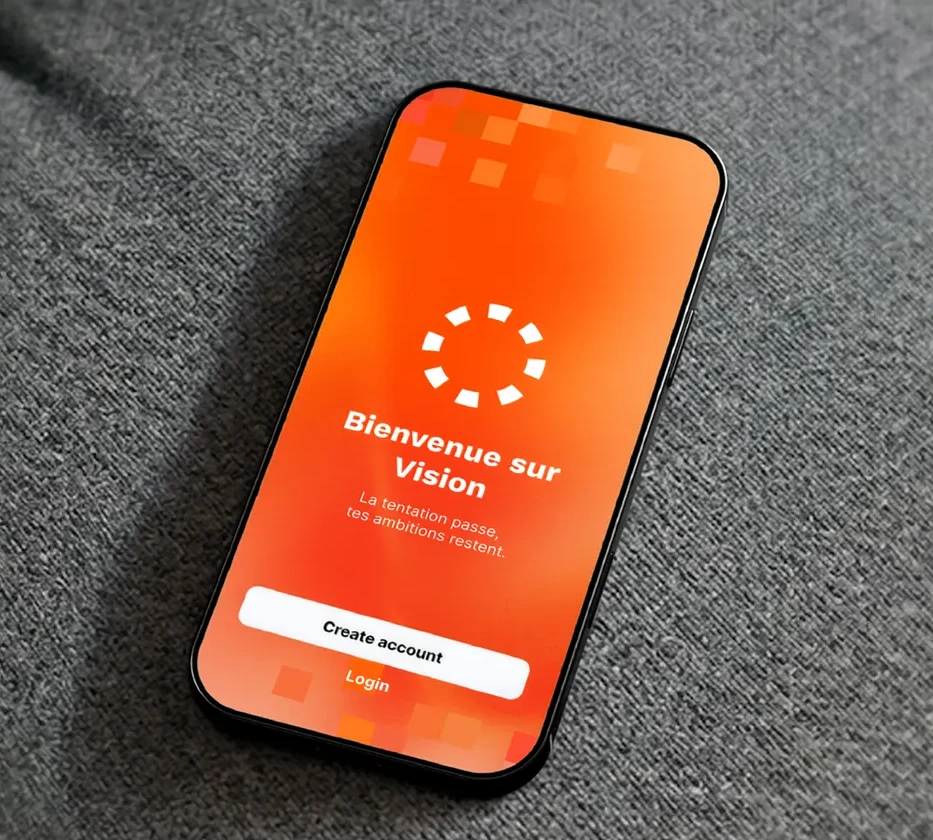
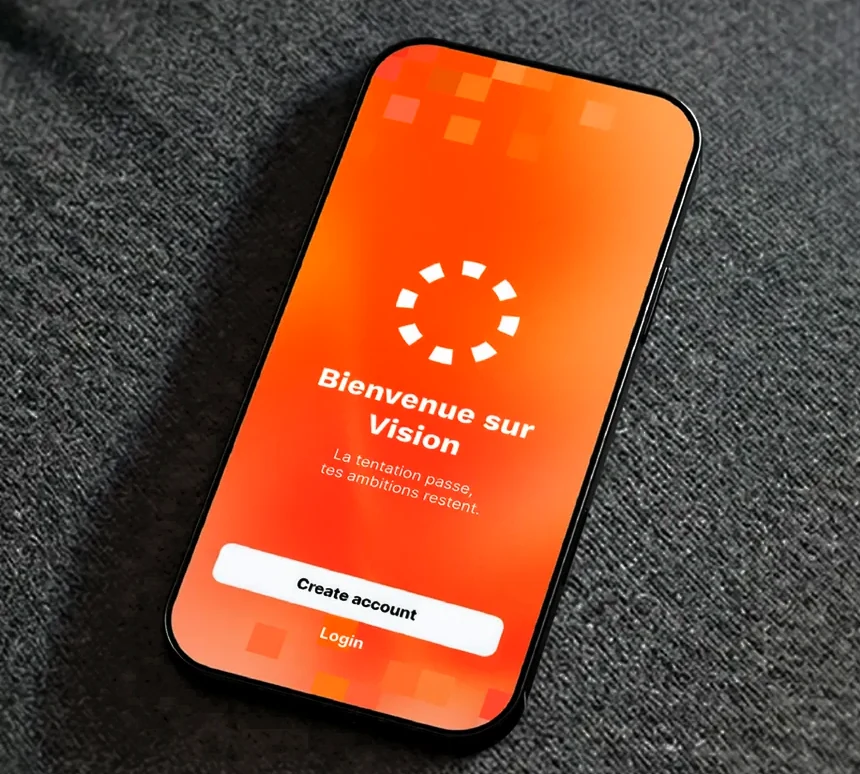
work: CTA « Voir tous les projets » en corps display avec pastille +, espace resserré ; vignette Vision recadrée plus serrée et contrastée
Claude-Session: https://claude.ai/code/session_01PNP8F5Nuc7TeX2R9uxrj3y

diff --git a/assets/css/work.css b/assets/css/work.css
@@ -1,7 +1,7 @@
 /* ==========================================================================
    Accueil · Projets : grille éditoriale asymétrique
    ========================================================================== */
-.work { padding: 34px var(--g) 150px; }
+.work { padding: 34px var(--g) 128px; }
 .work-grid { row-gap: 110px; align-items: end; }
 
 .card { position: relative; }
@@ -39,22 +39,44 @@
 .work-more { display: contents; }
 .work-more[hidden] { display: none; }
 
-.work-foot { display: flex; justify-content: center; margin-top: 96px; }
-.work-toggle { display: flex; flex-direction: column; align-items: center; gap: 74px; }
-.work-plus { position: relative; width: 19px; height: 19px; transition: transform .6s var(--ease); }
-.work-plus::before, .work-plus::after { content: ""; position: absolute; background: currentColor; }
-.work-plus::before { left: 0; right: 0; top: 9px; height: 1.4px; }
-.work-plus::after { top: 0; bottom: 0; left: 9px; width: 1.4px; }
-.work-toggle:hover .work-plus, .work-toggle[aria-expanded="true"] .work-plus { transform: rotate(90deg); }
-.work-toggle[aria-expanded="true"] .work-plus::after { transform: scaleY(0); }
-.work-all {
-  font-size: clamp(18px, 1.55vw, 25px); font-weight: 600; letter-spacing: -.025em; line-height: 1;
-  text-decoration: underline; text-decoration-thickness: 1.6px; text-underline-offset: 5px;
+.work-foot { display: flex; justify-content: center; margin-top: 84px; }
+.work-toggle {
+  display: inline-flex; align-items: center; gap: clamp(16px, 1.5vw, 24px);
+  font-size: var(--fs-display); line-height: 1; text-align: left;
 }
-.work-all sup { font-size: 9px; font-weight: 600; margin-left: 2px; vertical-align: 10px; text-decoration: none; display: inline-block; }
+.work-plus {
+  position: relative; flex: none; width: .86em; height: .86em; border-radius: 50%;
+  background: var(--ink); color: var(--bg);
+  transition: transform .7s var(--ease), background-color .4s;
+}
+.work-plus::before, .work-plus::after {
+  content: ""; position: absolute; left: 50%; top: 50%; background: currentColor;
+  transition: transform .5s var(--ease);
+}
+.work-plus::before { width: 36%; height: 3px; transform: translate(-50%, -50%); }
+.work-plus::after { width: 3px; height: 36%; transform: translate(-50%, -50%); }
+.work-toggle:hover .work-plus { transform: rotate(90deg); }
+.work-toggle[aria-expanded="true"] .work-plus::after { transform: translate(-50%, -50%) scaleY(0); }
+.work-all {
+  display: inline-flex; align-items: flex-start;
+  font-weight: 600; letter-spacing: -.048em; white-space: nowrap;
+}
+.work-all-label {
+  text-decoration: underline; text-decoration-thickness: 3px; text-underline-offset: .14em;
+  text-decoration-skip-ink: auto; text-decoration-color: currentColor;
+  transition: text-decoration-color .5s var(--ease), text-underline-offset .5s var(--ease);
+}
+.work-toggle:hover .work-all-label { text-decoration-color: transparent; text-underline-offset: .3em; }
+.work-all sup {
+  font-size: 13px; font-weight: 600; letter-spacing: 0; line-height: 1;
+  margin: .2em 0 0 6px; vertical-align: 0;
+}
 .work-toggle[hidden] { display: none; }
 
 @media (max-width: 800px) {
+  .work-foot { margin-top: 64px; }
+  .work-toggle { font-size: clamp(26px, 8.4vw, 44px); }
+  .work-plus::before { height: 2px; } .work-plus::after { width: 2px; }
   .work-grid { row-gap: 56px; }
   .card--a, .card--b, .card--c, .card--d, .card--e, .card--f { grid-column: 1 / -1; margin-top: 0; }
   .card--b, .card--d { grid-column: 3 / -1; }

diff --git a/index.html b/index.html
@@ -17,7 +17,7 @@
 <link rel="stylesheet" href="assets/css/nav.css?v=d0eab731">
 <link rel="stylesheet" href="assets/css/hero.css?v=57d8aa1d">
 <link rel="stylesheet" href="assets/css/intro.css?v=3aec4c8a">
-<link rel="stylesheet" href="assets/css/work.css?v=9eb64efb">
+<link rel="stylesheet" href="assets/css/work.css?v=7ae00192">
 <link rel="stylesheet" href="assets/css/clients.css?v=2abe2b6b">
 <link rel="stylesheet" href="assets/css/services.css?v=ae64671d">
 <link rel="stylesheet" href="assets/css/next.css?v=b3998634">
@@ -80,7 +80,7 @@
       <article class="card card--a" data-reveal>
         <a href="projets/vision.html">
           <span class="card-num" aria-hidden="true">01</span>
-          <span class="card-frame frame"><img src="assets/img/work-vision.webp" alt="" width="933" height="840" loading="lazy" decoding="async"></span>
+          <span class="card-frame frame"><img src="assets/img/work-vision.webp" alt="" width="860" height="774" loading="lazy" decoding="async"></span>
           <span class="card-meta"><span class="card-title">Vision</span><span class="card-cat">App mobile · UX/UI</span></span>
         </a>
       </article>
@@ -125,7 +125,7 @@
     <div class="work-foot">
       <button type="button" class="work-toggle" data-more-toggle aria-expanded="false" aria-controls="work-more" data-close-label="Voir moins de projets" hidden>
         <span class="work-plus" aria-hidden="true"></span>
-        <span class="work-all"><span data-more-label>Voir tous les projets</span><sup>06</sup></span>
+        <span class="work-all"><span class="work-all-label" data-more-label>Voir tous les projets</span><sup>06</sup></span>
       </button>
     </div>
   </section>

diff --git a/build.py b/build.py
@@ -740,7 +740,7 @@ def render_work(base):
     <div class="work-foot">
       <button type="button" class="work-toggle" data-more-toggle aria-expanded="false" aria-controls="work-more" data-close-label="Voir moins de projets" hidden>
         <span class="work-plus" aria-hidden="true"></span>
-        <span class="work-all"><span data-more-label>Voir tous les projets</span><sup>{len(PROJECTS):02d}</sup></span>
+        <span class="work-all"><span class="work-all-label" data-more-label>Voir tous les projets</span><sup>{len(PROJECTS):02d}</sup></span>
       </button>
     </div>
   </section>"""
